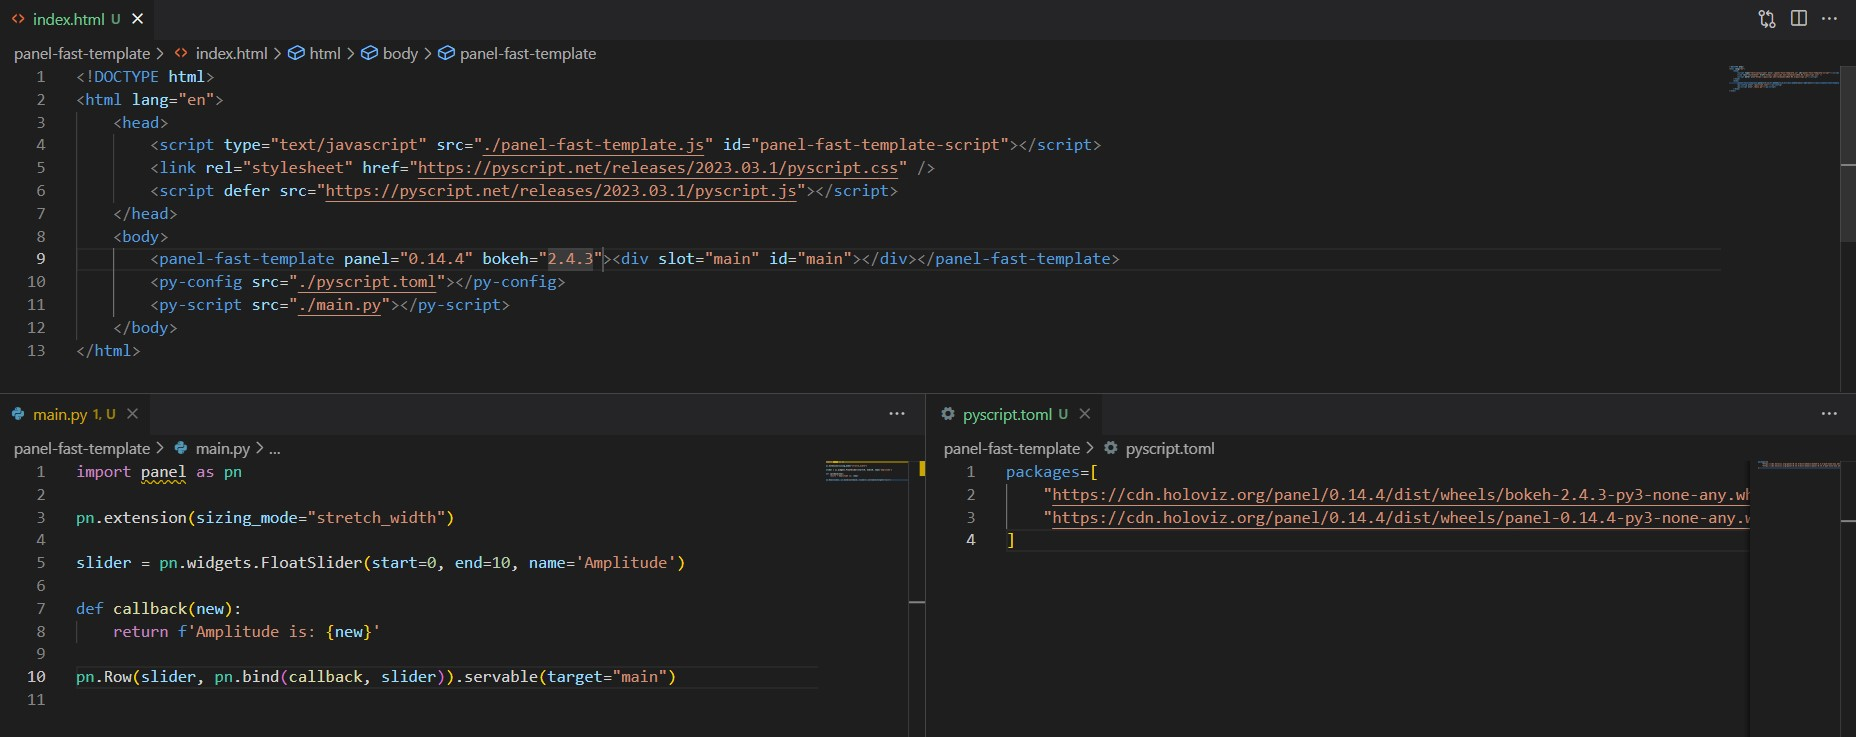
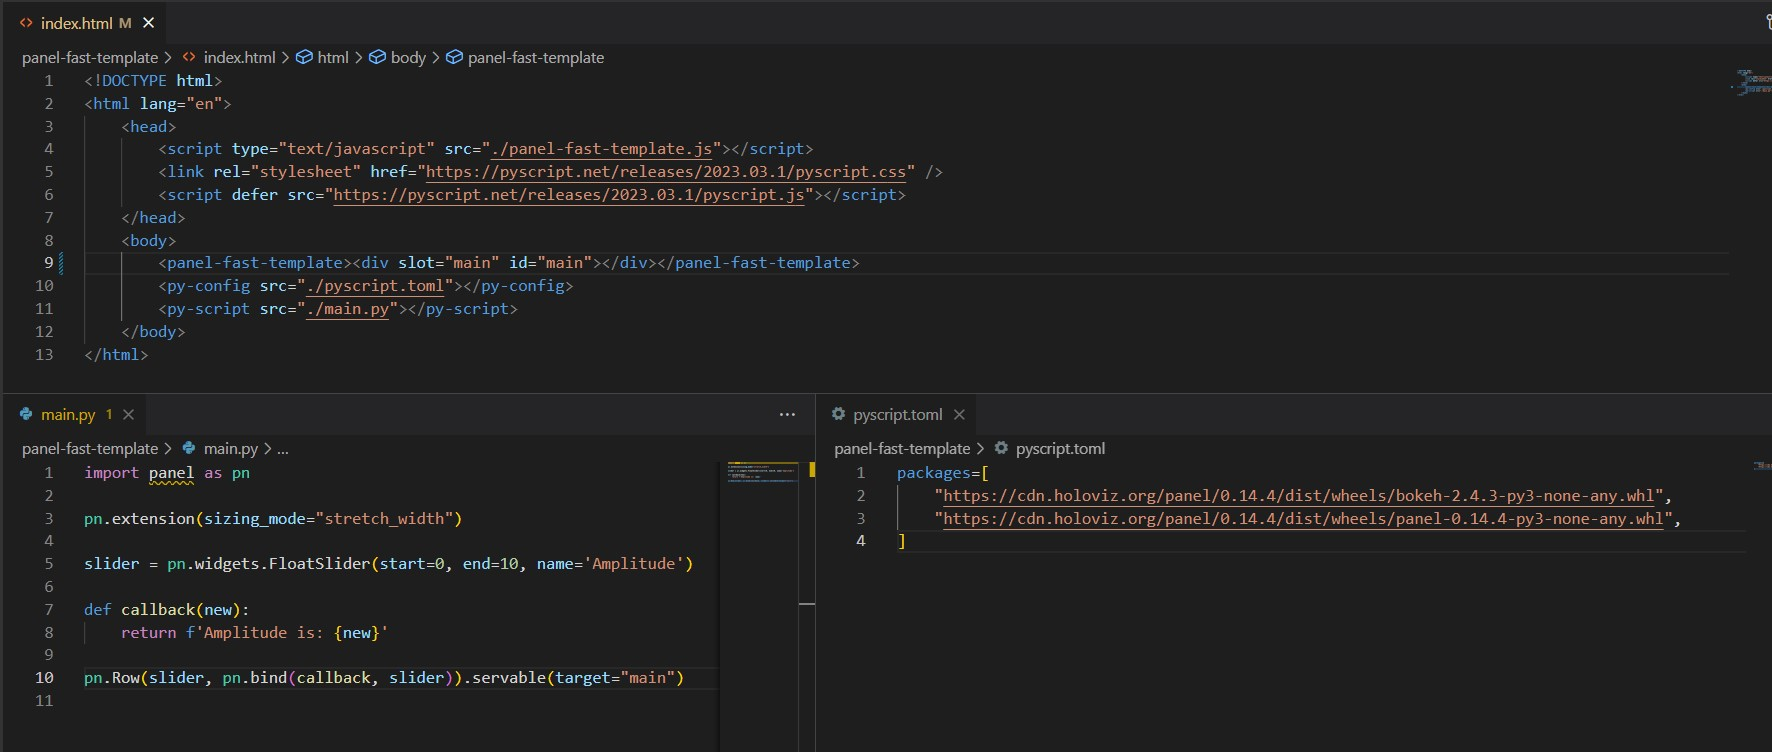
fix image

diff --git a/panel-fast-template/index.html b/panel-fast-template/index.html
@@ -6,7 +6,7 @@
         <script defer src="https://pyscript.net/releases/2023.03.1/pyscript.js"></script>
     </head>
     <body>
-        <panel-fast-template panel="0.14.4" bokeh="2.4.3"><div slot="main" id="main"></div></panel-fast-template>
+        <panel-fast-template><div slot="main" id="main"></div></panel-fast-template>
         <py-config src="./pyscript.toml"></py-config>
         <py-script src="./main.py"></py-script>
     </body>
